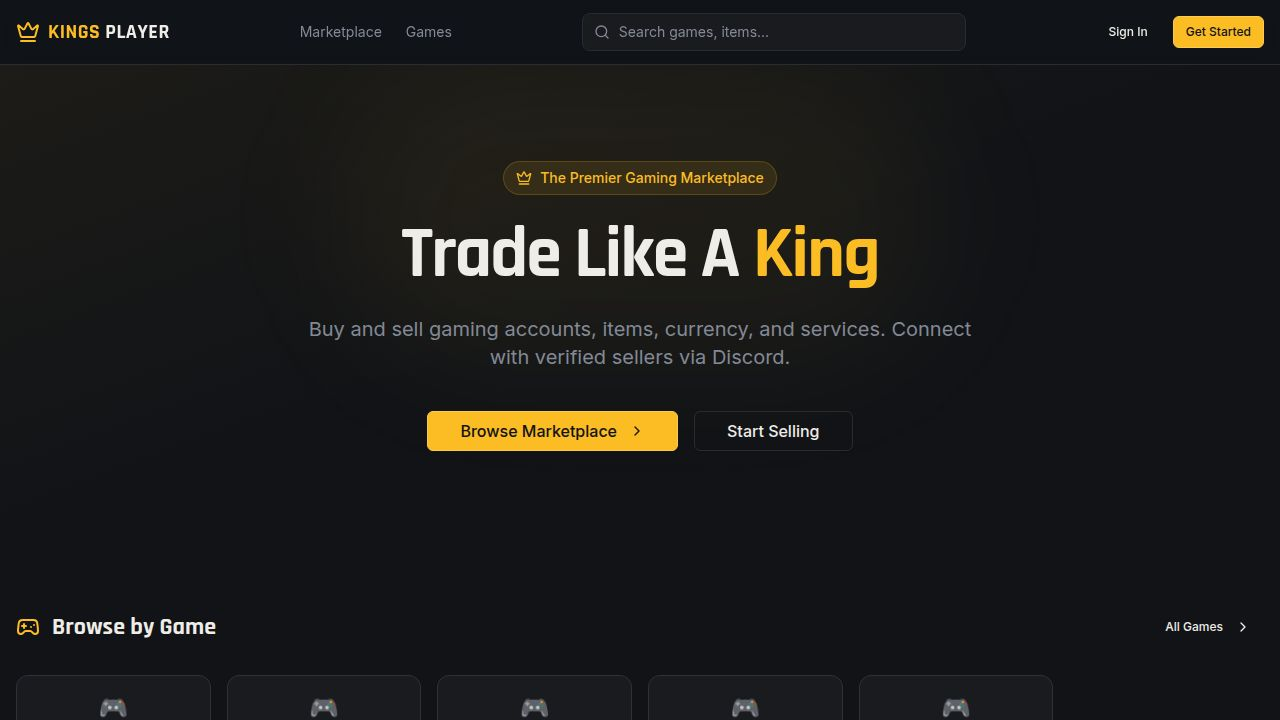
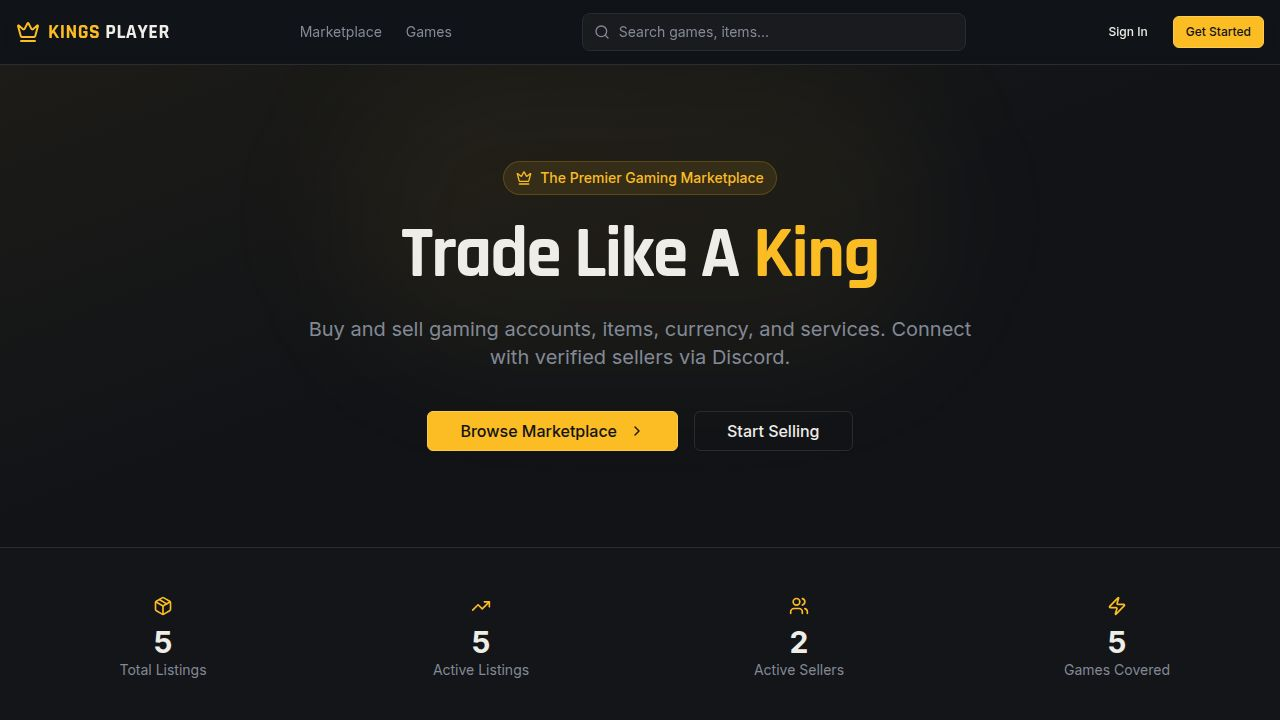
Update build process to automatically create a public output directory
Configure Vite to output build artifacts directly to the 'public/' directory at the repository root, simplifying Vercel deployment by aligning with its default output expectations.

Replit-Commit-Author: Agent
Replit-Commit-Session-Id: a9361f42-327a-402a-b43e-dab1cc770889
Replit-Commit-Checkpoint-Type: full_checkpoint
Replit-Commit-Event-Id: 1bb2e9a3-7fdc-49fb-8767-6e7dcd435d99
Replit-Commit-Screenshot-Url: https://storage.googleapis.com/screenshot-production-us-central1/c82cfa92-0446-476a-b712-153b5be2edbf/a9361f42-327a-402a-b43e-dab1cc770889/7YqaA2S
Replit-Helium-Checkpoint-Created: true

diff --git a/artifacts/kings-player/vite.config.ts b/artifacts/kings-player/vite.config.ts
@@ -49,7 +49,7 @@ export default defineConfig({
   },
   root: path.resolve(__dirname),
   build: {
-    outDir: "dist",
+    outDir: path.resolve(__dirname, "../../public"),
     emptyOutDir: true,
   },
   server: {